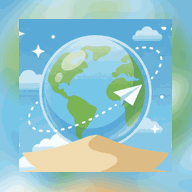
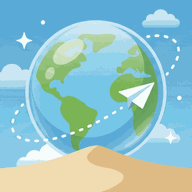
Add files via upload

diff --git a/trove/sw.js b/trove/sw.js
@@ -1,5 +1,5 @@
 /* Trove service worker — offline shell cache */
-const CACHE = 'trove-v3';
+const CACHE = 'trove-v4';
 const ASSETS = [
   './',
   './index.html',